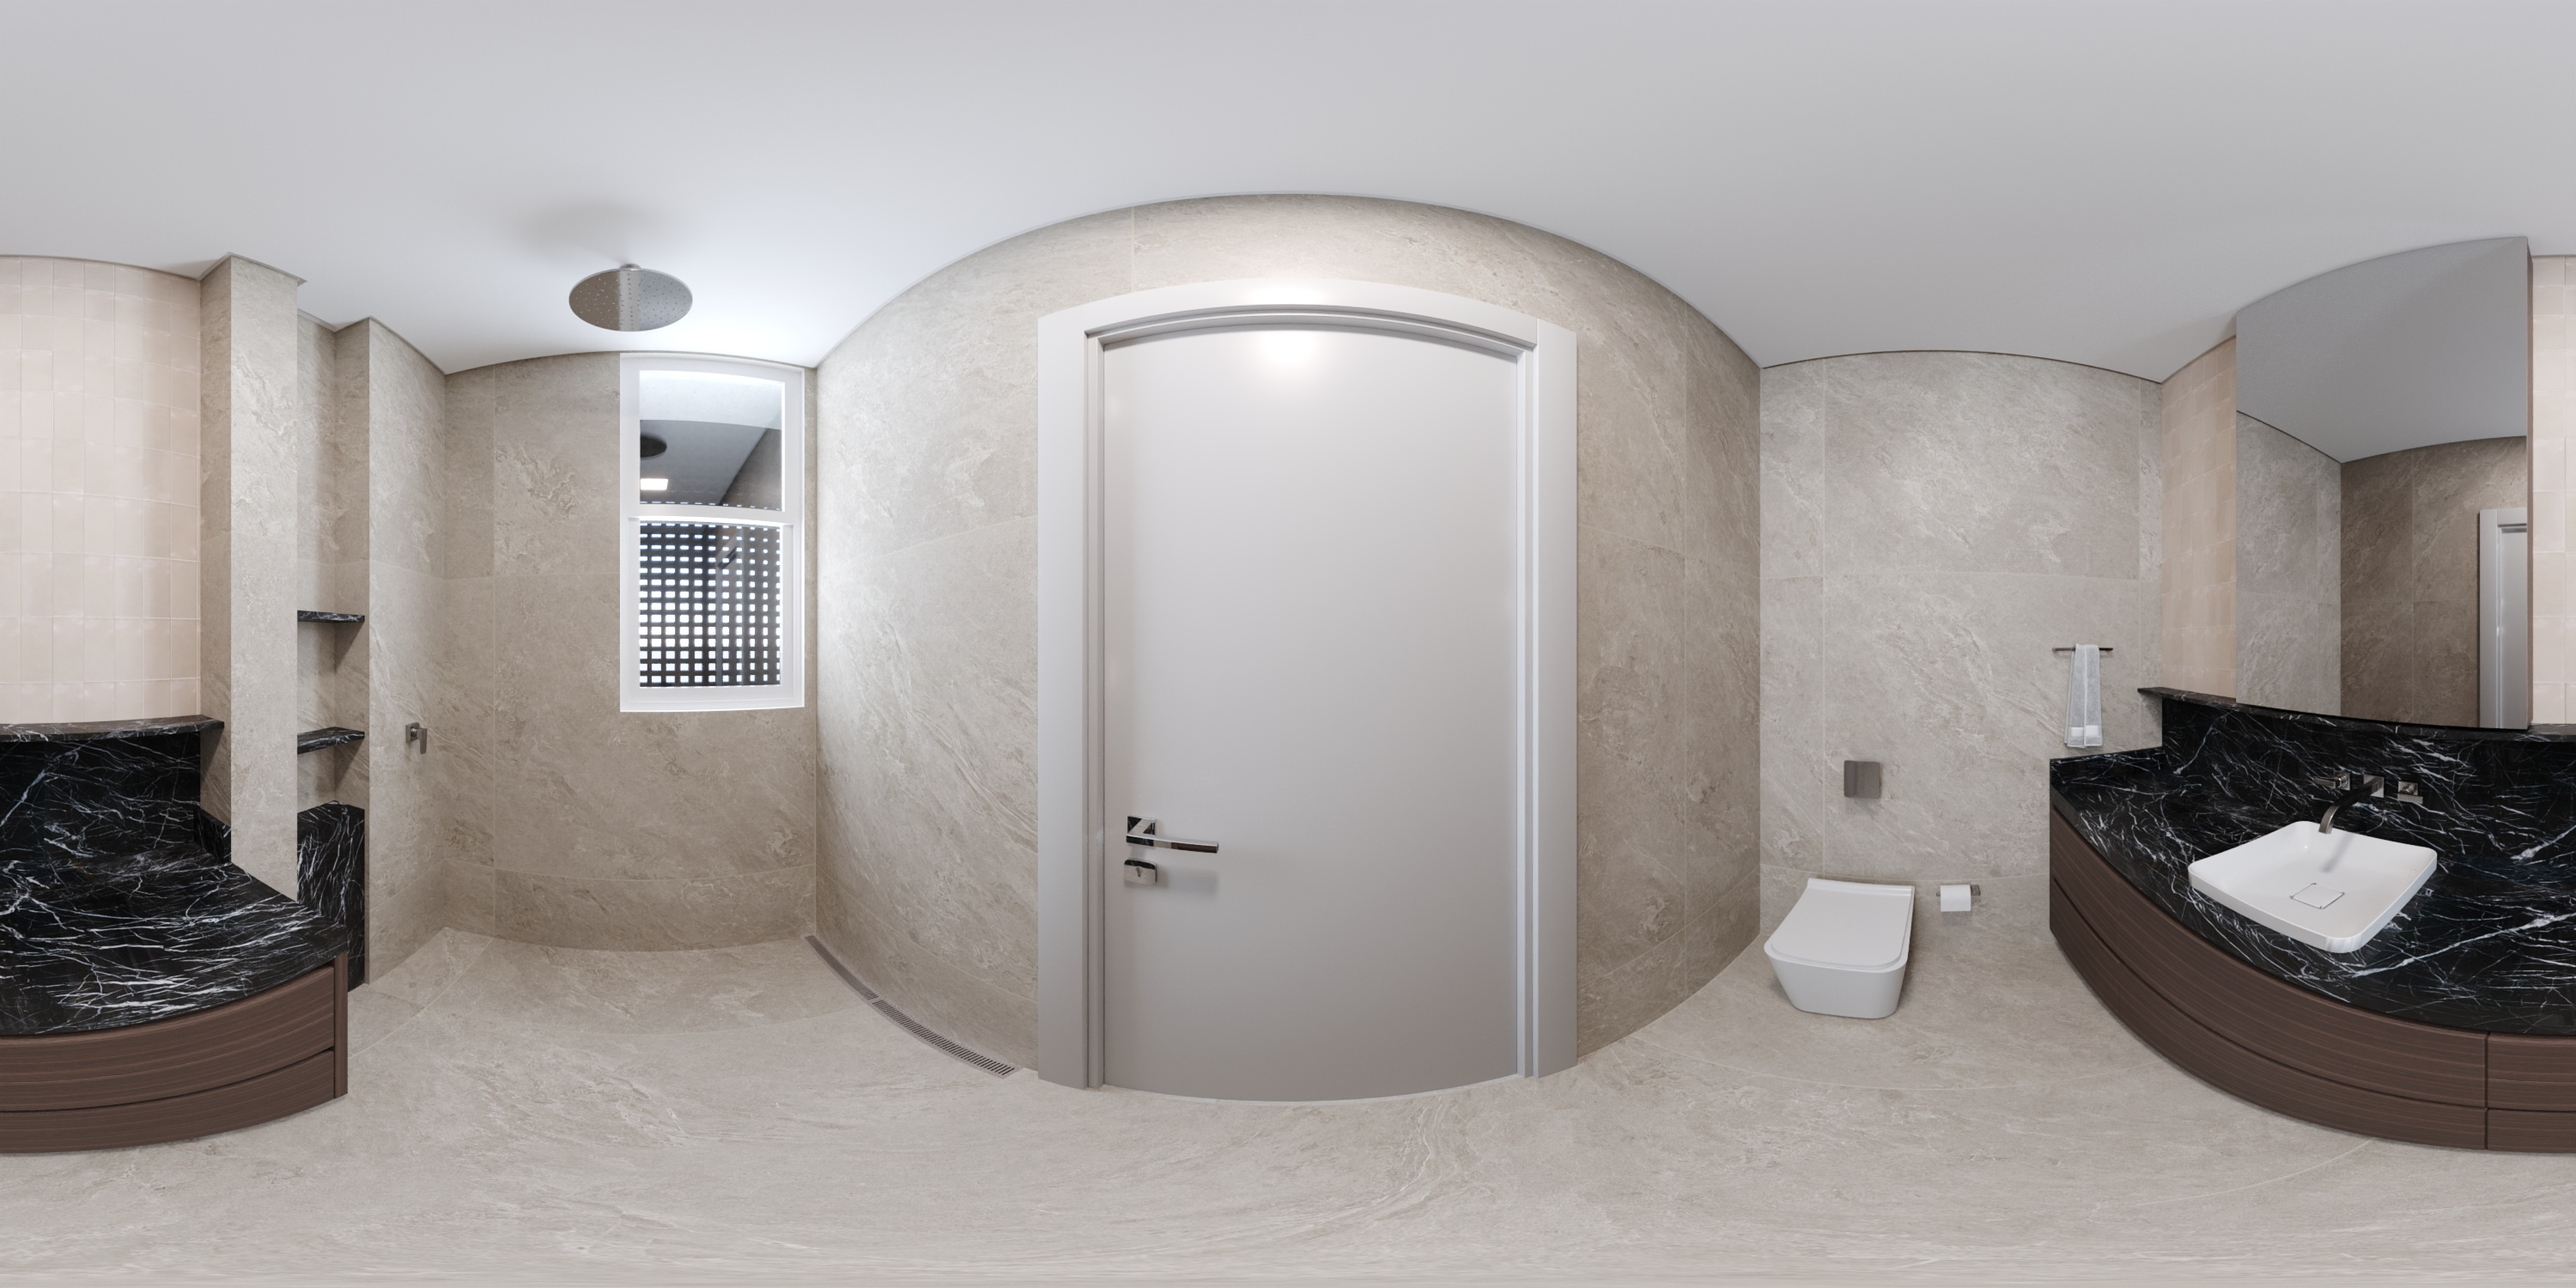
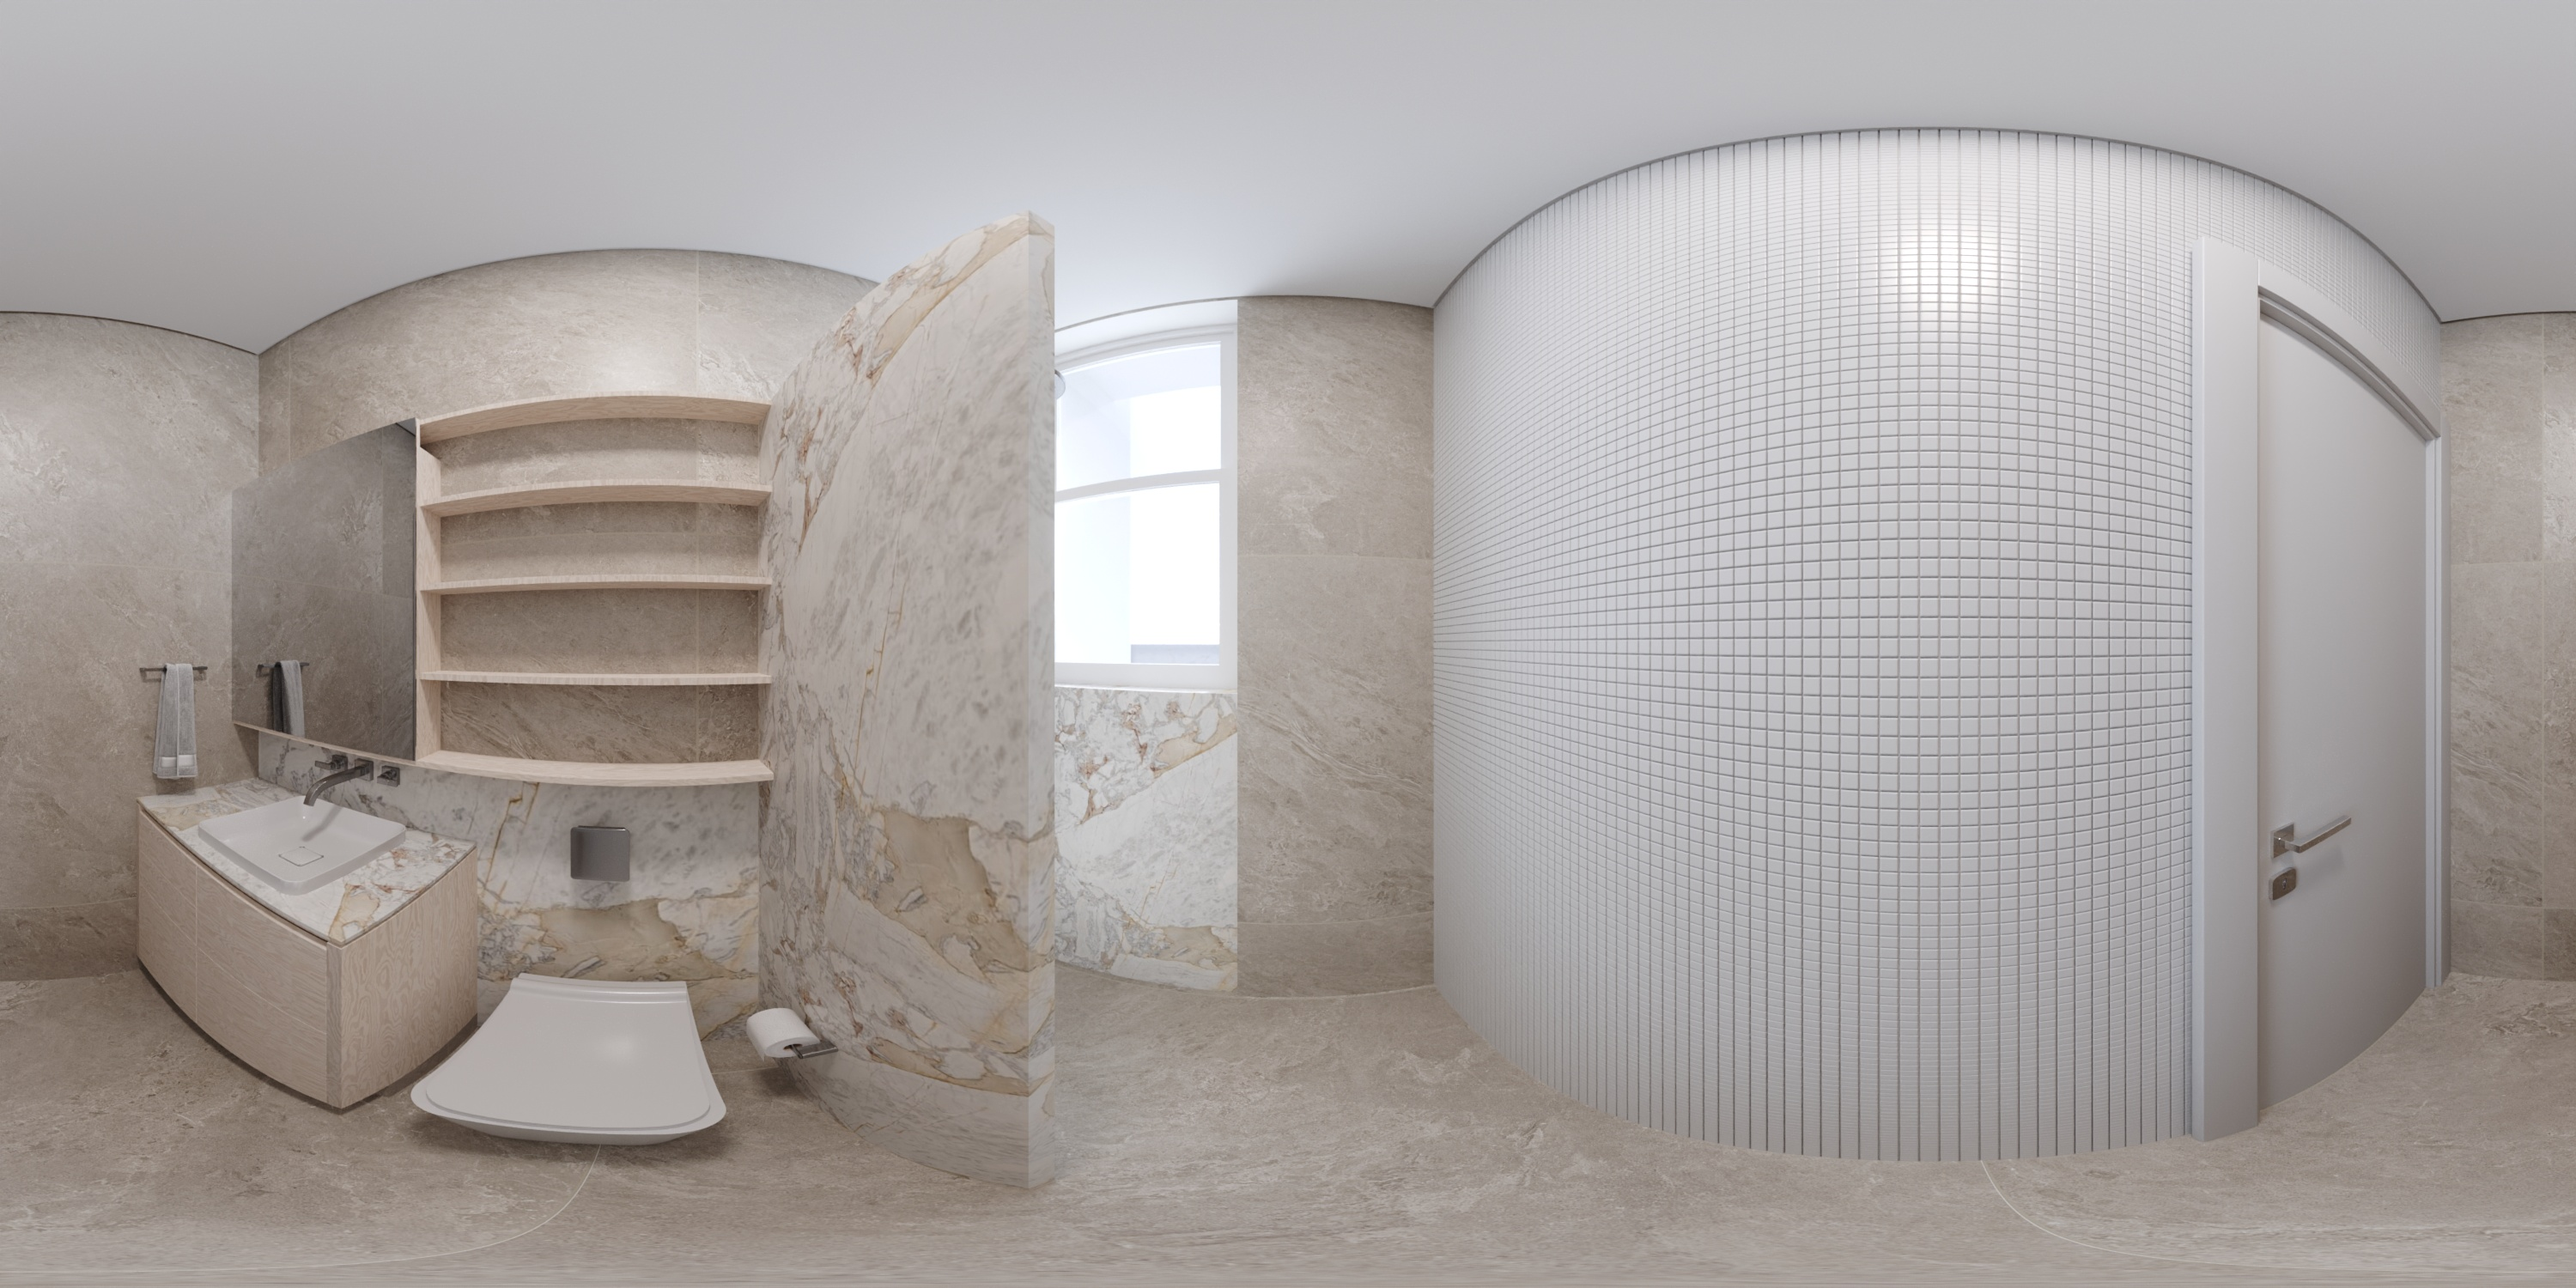
Tour: BANHEIROS - 29/08/2026 02:29

diff --git a/banheiros/config.js b/banheiros/config.js
@@ -1,7 +1,7 @@
 const CONFIG = {
   pasta: "imagens_360/",
   extensao: "jpg",
-  totalImagens: 6, // ⬅ ajuste aqui só isso
+  totalImagens: 5, // ⬅ ajuste aqui só isso
   senha: "Jasmim433",    // ⬅ o script de publicação atualiza isso automaticamente
   capa: "imagens_360/1.jpg" // ⬅ imagem mostrada na tela de "Iniciar Tour" (troque pelo render que quiser)
 };
